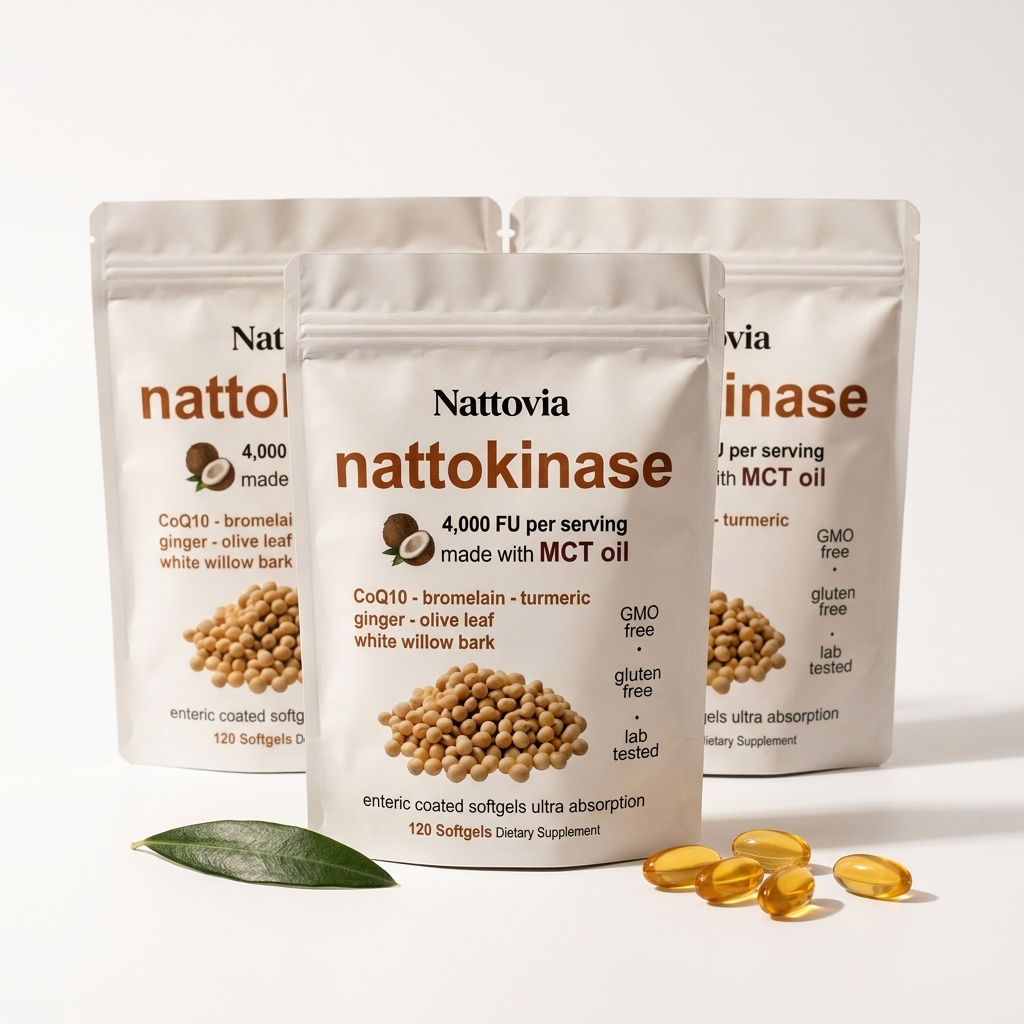
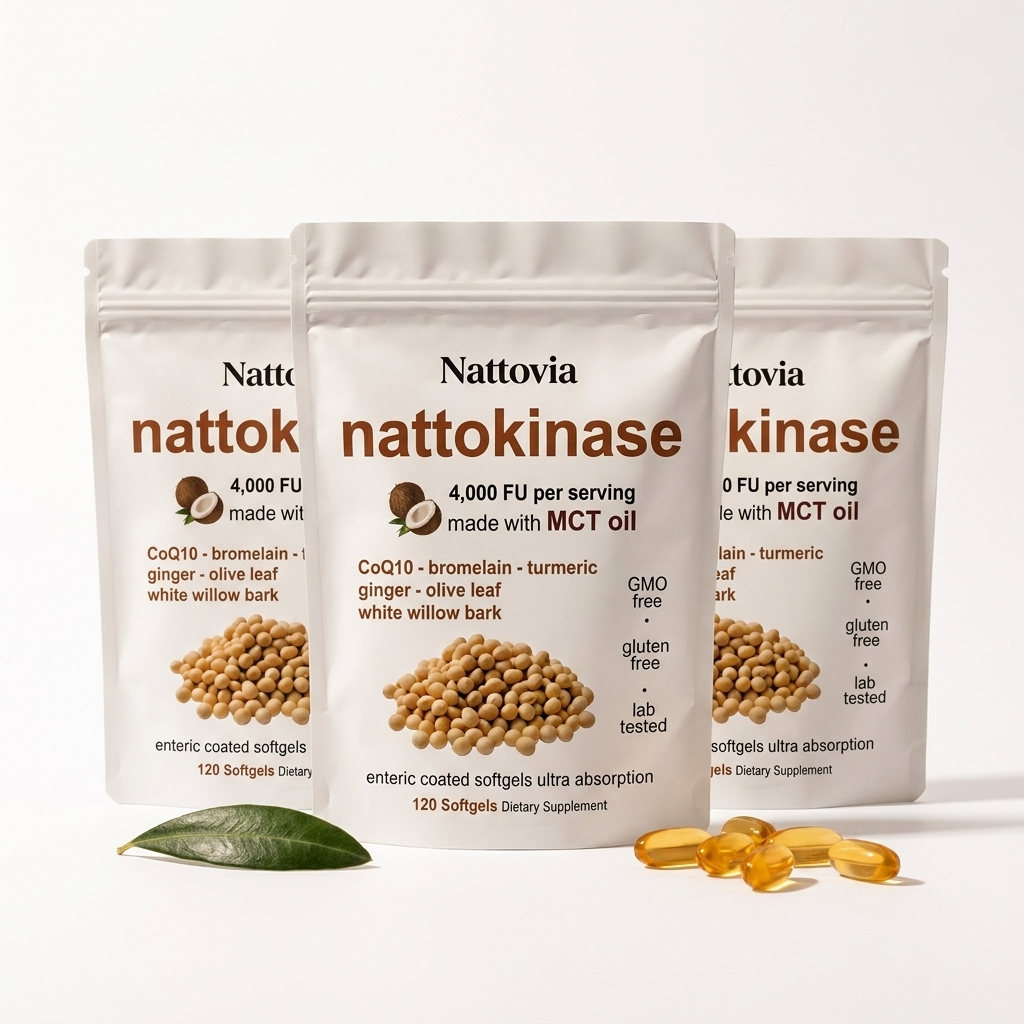
Refresh main7 image

diff --git a/index.html b/index.html
@@ -2497,7 +2497,7 @@ document.addEventListener("DOMContentLoaded", function () {
 
 </div>
 <div class="product__media media media--transparent">
-      <img src="main7.png?v=202606081638" alt="" width="1946" height="1946" loading="lazy" class="image-magnify-none" sizes="(min-width: 1400px) 715px, (min-width: 990px) calc(55.0vw - 10rem), (min-width: 750px) calc((100vw - 11.5rem) / 2), calc(100vw / 1 - 4rem)">
+      <img src="main7.png?v=202606081641" alt="" width="1946" height="1946" loading="lazy" class="image-magnify-none" sizes="(min-width: 1400px) 715px, (min-width: 990px) calc(55.0vw - 10rem), (min-width: 750px) calc((100vw - 11.5rem) / 2), calc(100vw / 1 - 4rem)">
     </div>
     <button
       class="product__media-toggle quick-add-hidden product__media-zoom-none"
@@ -2729,7 +2729,7 @@ document.addEventListener("DOMContentLoaded", function () {
                 aria-describedby="Thumbnail-template--29594137821532__main-7
 "
               >
-                <img src="main7.png?v=202606081638" alt="Nattovia product" width="416" height="416" loading="lazy" sizes="(min-width: 1400px) calc((715 - 4rem) / 4),
+                <img src="main7.png?v=202606081641" alt="Nattovia product" width="416" height="416" loading="lazy" sizes="(min-width: 1400px) calc((715 - 4rem) / 4),
           (min-width: 990px) calc((55.0vw - 4rem) / 4),
           (min-width: 750px) calc((100vw - 15rem) / 8),
           calc((100vw - 8rem) / 3)" id="Thumbnail-template--29594137821532__main-7
@@ -4904,9 +4904,9 @@ margin-bottom: -5px;
   >
 <img
     class="global-media-settings global-media-settings--no-shadow"
-    srcset="main7.png?v=202606081638 550w,main7.png?v=202606081638 1100w"
+    srcset="main7.png?v=202606081641 550w,main7.png?v=202606081641 1100w"
     sizes="(min-width: 750px) calc(100vw - 22rem), 1100px"
-    src="main7.png?v=202606081638"
+    src="main7.png?v=202606081641"
     alt="Nattovia product"
     loading="lazy"
     width="1100"